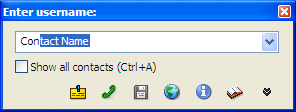
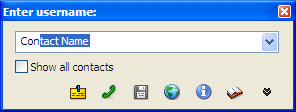
quickcontacts: 0.0.3.0   + Added support for hotkeys module in 0.8 (some texts changed in langpack)

Changed region(s): [[0.3953, 0.5625, 0.5473, 0.6429]]

diff --git a/quickcontacts/commons.h b/quickcontacts/commons.h
@@ -58,6 +58,7 @@ Boston, MA 02111-1307, USA.
 #include <m_voice.h>
 #include <m_voiceservice.h>
 #include <m_icolib.h>
+#include <m_hotkeys.h>
 
 #include "../utils/mir_memory.h"
 #include "../utils/mir_options.h"
